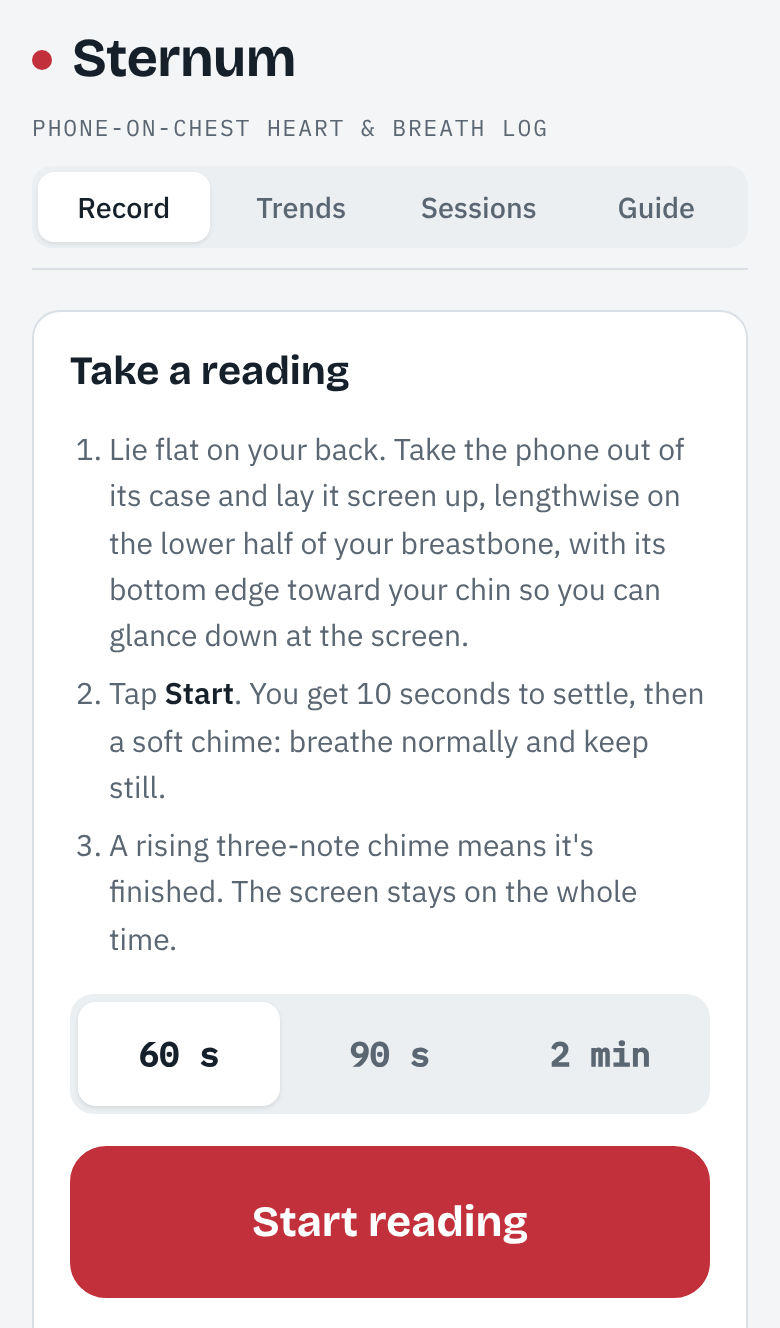
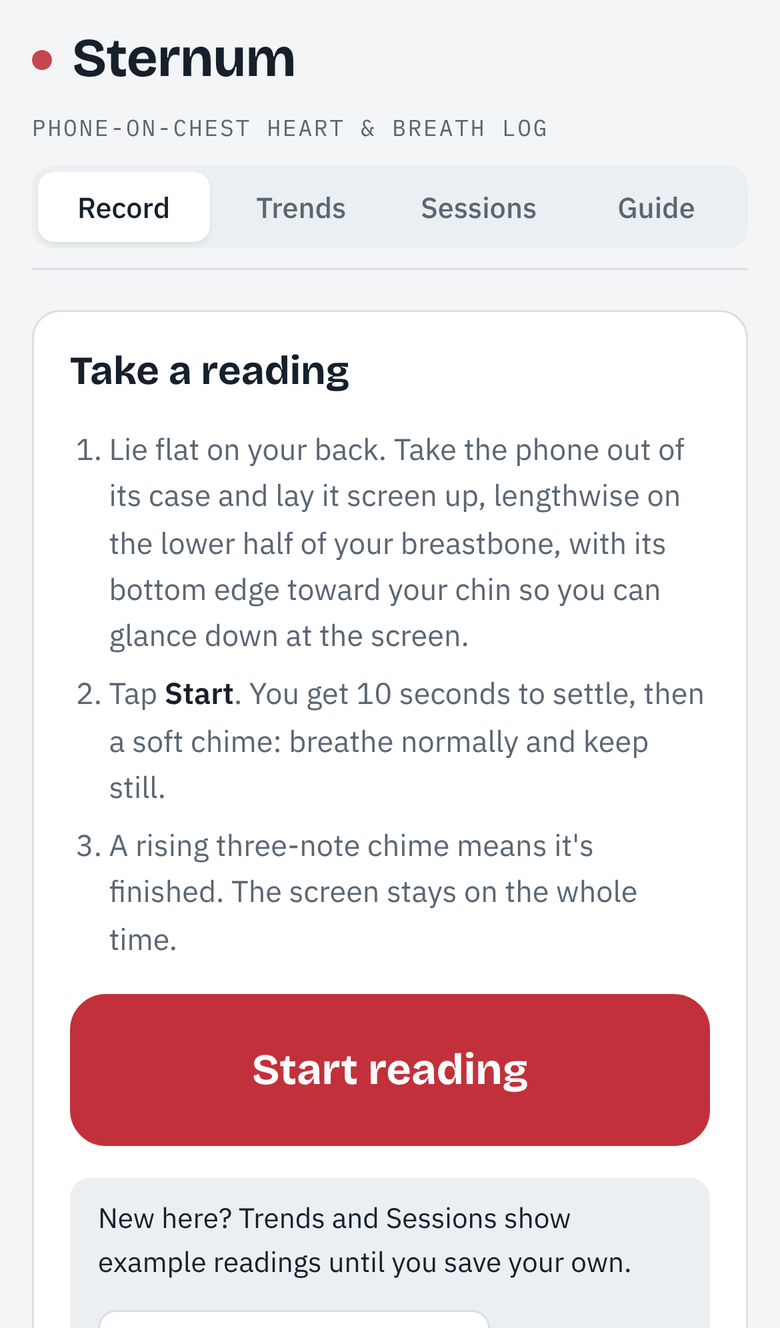
Home: drop the repeated warnings and the length picker; readings are 60 s (#4)
The safety note before each reading covers it, so the note under Start and
the box at the top of the Guide go.

Claude-Session: https://claude.ai/code/session_01PqYzxjYGHHQ4LtS2t6Qgvf

Changed region(s): [[0.0923, 0.741, 0.9231, 1.0]]

diff --git a/index.html b/index.html
@@ -125,9 +125,6 @@ label.check { display: flex; gap: 8px; align-items: center; font-size: .9rem }
 .start { gap: 16px }
 .steps { margin: 0; padding-left: 1.3em; display: flex; flex-direction: column; gap: 6px; color: var(--muted) }
 .steps b { color: var(--ink) }
-.seg { display: grid; grid-template-columns: repeat(3, 1fr); background: var(--soft); border-radius: 12px; padding: 4px; gap: 4px }
-.seg button { border: 0; background: none; color: var(--muted); font: 600 1.05rem var(--mono); padding: 12px 4px; border-radius: 9px; min-height: 52px }
-.seg button[aria-checked="true"] { background: var(--panel); color: var(--ink); box-shadow: 0 1px 2px rgba(0,0,0,.1) }
 button.go, a.go { box-sizing: border-box; border: 1px solid var(--pulse); background: var(--pulse); border-color: var(--pulse); color: #fff; font: 700 1.35rem var(--display); min-height: 76px; border-radius: 18px; width: 100% }
 button.go:disabled { opacity: .55 }
 button.big-quiet { min-height: 76px; border-radius: 18px; font: 600 1.15rem var(--body); width: 100% }
@@ -184,9 +181,6 @@ figcaption { font-size: .72rem; letter-spacing: .07em; text-transform: uppercase
 .about-you { display: flex; flex-direction: column; gap: 6px }
 .about-you select { min-height: 44px; min-width: 0; flex: 1 1 0 }
 .todos, .todo-track, main.wrap, .panel { min-width: 0; max-width: 100% }
-.danger { border-radius: 12px; padding: 14px 16px; background: var(--alert-bg); border-left: 5px solid var(--alert); display: flex; flex-direction: column; gap: 6px }
-.danger b { font-size: 1.05rem; color: var(--alert) }
-.danger p { margin: 0; font-size: .92rem; line-height: 1.5 }
 .todos { display: flex; flex-direction: column; gap: 8px }
 .todo-track { display: flex; overflow-x: auto; scroll-snap-type: x mandatory; gap: 12px; scrollbar-width: none; -webkit-overflow-scrolling: touch }
 .todo-track::-webkit-scrollbar { display: none }
@@ -218,8 +212,6 @@ figcaption { font-size: .72rem; letter-spacing: .07em; text-transform: uppercase
 .lead { font-size: 1.08rem; line-height: 1.5 }
 .welcome .brandline { display: flex; align-items: center; gap: 10px; font: 700 1.1rem var(--display) }
 .welcome .brandline img { width: 40px; height: 40px; border-radius: 10px }
-.disclaimer { font-size: .84rem; color: var(--muted); border-left: 3px solid var(--alert); padding: 2px 0 2px 10px; max-width: 65ch }
-.disclaimer b { color: var(--ink); font-weight: 600 }
 .pose { margin: 0; background: var(--panel); border: 1px solid var(--line); border-radius: 16px; padding: 14px 10px 6px }
 .pose svg { display: block; width: 100%; height: auto; max-width: 480px; margin: 0 auto; overflow: visible }
 .pose text { font-family: var(--body) }
@@ -275,11 +267,7 @@ details.more[open] > summary, details.more-charts[open] > summary { margin-botto
         <div class="qr" id="desk-qr" aria-label="QR code that opens this page"></div>
         <div><b>Sternum records on a phone</b><p class="small muted">It reads your heart from your phone's motion sensors, which a computer doesn't have. Scan this with your phone's camera to open Sternum there. Meanwhile, look at the example reading or run a simulated one below.</p></div>
       </div>
-      <div class="seg" role="radiogroup" aria-label="Reading length">
-        <button role="radio" data-dur="60" aria-checked="true">60 s</button><button role="radio" data-dur="90" aria-checked="false">90 s</button><button role="radio" data-dur="120" aria-checked="false">2 min</button>
-      </div>
       <button class="go" id="btn-live">Start reading</button>
-      <p class="disclaimer"><b>A curiosity, not a medical device.</b> If you have chest pain, faint, are badly short of breath, or your heart is racing and won't settle, don't take a reading: call emergency services or see a doctor.</p>
       <div id="example-note" class="example-card" hidden><span>New here? Trends and Sessions show example readings until you save your own.</span><button id="btn-example">See an example reading</button></div>
       <div id="start-msg" class="banner warn" hidden></div>
       <details class="sim">
@@ -384,18 +372,13 @@ details.more[open] > summary, details.more-charts[open] > summary { margin-botto
   <main id="view-sessions" class="wrap" role="tabpanel" aria-labelledby="tab-sessions" data-view="sessions" hidden></main>
   <main id="view-guide" class="wrap" role="tabpanel" aria-labelledby="tab-guide" data-view="guide" hidden>
     <article class="panel guide">
-        <div class="danger" role="note">
-          <b>Get help now, don't take a reading</b>
-          <p>Chest pain, fainting, severe breathlessness, or a racing heart that won't settle: call emergency services or see a doctor.</p>
-          <p>Sternum is not a medical device. It can't diagnose anything, and it may not notice a condition you already have, such as atrial fibrillation, a pacemaker rhythm or a valve problem. A "normal" result never rules one out. If irregular rhythm keeps showing up, check it with an ECG (Apple Watch ECG app, KardiaMobile, or your doctor).</p>
-        </div>
         <section>
           <h2>How to take a good reading</h2>
           <ol>
             <li>Same time each day, ideally soon after waking, before coffee. Lie flat on your back on a bed, with one thin pillow at most, and rest for 2 to 3 minutes before you tap Start, so your heart rate settles.</li>
             <li>Take the phone out of its case and lay it screen up, flat and lengthwise along the lower half of your breastbone (the flat bone in the middle of your chest), with its bottom edge toward your chin. Then a glance down shows the countdown and your heart rate the right way up.</li>
             <li>Arms by your sides. Breathe normally, don't talk, keep still. Do Not Disturb stops a buzz from spoiling the reading.</li>
-            <li>Tap Start, settle during the 10-second countdown, and stay still until the closing chime. 60 seconds is enough; 2 minutes gives steadier HRV.</li>
+            <li>Tap Start, settle during the 10-second countdown, and stay still until the closing chime.</li>
             <li>Tag anything unusual (coffee, alcohol, short sleep, workout, feeling unwell). Tags explain outliers later.</li>
             <li>Mark 3–5 calm, typical mornings as your baseline. Until you do, the first three good readings are used.</li>
           </ol>
@@ -1117,7 +1100,7 @@ function packRaw(rec) {
 // a field guide travels inside every export, so any reader (or another Claude) can interpret it cold
 const EXPORT_ABOUT = {
   profile: 'optional, self-reported: age range and sex (null if not given). Use for context only, e.g. HRV norms fall with age.',
-  what: 'Sternum readings. The person lies on their back with a phone (no case) flat on the lower breastbone for 60-120 s. The page records the accelerometer and gyroscope (seismo- and gyrocardiography: each heartbeat jolts and rocks the chest; breathing tilts the phone). Readings from older versions may also include the microphone (breath sounds; heart sounds only if audible). Wellness tracking, not a medical device.',
+  what: 'Sternum readings. The person lies on their back with a phone (no case) flat on the lower breastbone for 60 s. The page records the accelerometer and gyroscope (seismo- and gyrocardiography: each heartbeat jolts and rocks the chest; breathing tilts the phone). Readings from older versions may also include the microphone (breath sounds; heart sounds only if audible). Wellness tracking, not a medical device.',
   sessions: {
     id: 'unique reading id; keys raw data in "raw"', ts: 'start time, ms since 1970 (UTC)', source: 'live = recorded on the phone; simulated = synthetic demo',
     tags: 'context the person ticked (coffee, short sleep, ...)', note: 'free text', baseline: 'true if marked as part of their personal baseline',
@@ -1684,9 +1667,7 @@ function bqCo(type, f0, fs) {
 }
 function bqStream(co) { let x1 = 0, x2 = 0, y1 = 0, y2 = 0; return x => { const y = co[0] * x + co[1] * x1 + co[2] * x2 - co[3] * y1 - co[4] * y2; x2 = x1; x1 = x; y2 = y1; y1 = y; return y; }; }
 
-let DUR = 60;
-document.querySelectorAll('.seg [data-dur]').forEach(b => b.onclick = () => { DUR = +b.dataset.dur; document.querySelectorAll('.seg [data-dur]').forEach(x => x.setAttribute('aria-checked', x === b)); try { localStorage.setItem('sternum.dur', DUR); } catch { } });
-try { const d = +localStorage.getItem('sternum.dur'); if ([60, 90, 120].includes(d)) document.querySelector(`.seg [data-dur="${d}"]`).click(); } catch { }
+const DUR = 60;
 
 $('#btn-live').onclick = async () => {
   // everything that needs the tap itself happens before the first await
@@ -1830,7 +1811,7 @@ $('#btn-example').onclick = () => { renderResult(EXAMPLES[EXAMPLES.length - 1], 
 
 // a computer has no motion sensors: point it at a phone instead, and leave the examples and simulations to explore
 if (!matchMedia('(pointer: coarse)').matches) {
-  $('#desk').hidden = false; $('.seg').hidden = true; $('#btn-live').hidden = true; $('details.sim').open = true;
+  $('#desk').hidden = false; $('#btn-live').hidden = true; $('details.sim').open = true;
   if (/^https?:$/.test(location.protocol)) {
     const sc = document.createElement('script'); sc.src = 'vendor/qrcode.js';
     sc.onload = () => { try { const q = qrcode(0, 'M'); q.addData(location.origin + location.pathname); q.make(); $('#desk-qr').innerHTML = q.createSvgTag({ cellSize: 4, margin: 0, scalable: true }); } catch { $('#desk-qr').hidden = true; } };

diff --git a/src/page.html b/src/page.html
@@ -125,9 +125,6 @@ label.check { display: flex; gap: 8px; align-items: center; font-size: .9rem }
 .start { gap: 16px }
 .steps { margin: 0; padding-left: 1.3em; display: flex; flex-direction: column; gap: 6px; color: var(--muted) }
 .steps b { color: var(--ink) }
-.seg { display: grid; grid-template-columns: repeat(3, 1fr); background: var(--soft); border-radius: 12px; padding: 4px; gap: 4px }
-.seg button { border: 0; background: none; color: var(--muted); font: 600 1.05rem var(--mono); padding: 12px 4px; border-radius: 9px; min-height: 52px }
-.seg button[aria-checked="true"] { background: var(--panel); color: var(--ink); box-shadow: 0 1px 2px rgba(0,0,0,.1) }
 button.go, a.go { box-sizing: border-box; border: 1px solid var(--pulse); background: var(--pulse); border-color: var(--pulse); color: #fff; font: 700 1.35rem var(--display); min-height: 76px; border-radius: 18px; width: 100% }
 button.go:disabled { opacity: .55 }
 button.big-quiet { min-height: 76px; border-radius: 18px; font: 600 1.15rem var(--body); width: 100% }
@@ -184,9 +181,6 @@ figcaption { font-size: .72rem; letter-spacing: .07em; text-transform: uppercase
 .about-you { display: flex; flex-direction: column; gap: 6px }
 .about-you select { min-height: 44px; min-width: 0; flex: 1 1 0 }
 .todos, .todo-track, main.wrap, .panel { min-width: 0; max-width: 100% }
-.danger { border-radius: 12px; padding: 14px 16px; background: var(--alert-bg); border-left: 5px solid var(--alert); display: flex; flex-direction: column; gap: 6px }
-.danger b { font-size: 1.05rem; color: var(--alert) }
-.danger p { margin: 0; font-size: .92rem; line-height: 1.5 }
 .todos { display: flex; flex-direction: column; gap: 8px }
 .todo-track { display: flex; overflow-x: auto; scroll-snap-type: x mandatory; gap: 12px; scrollbar-width: none; -webkit-overflow-scrolling: touch }
 .todo-track::-webkit-scrollbar { display: none }
@@ -218,8 +212,6 @@ figcaption { font-size: .72rem; letter-spacing: .07em; text-transform: uppercase
 .lead { font-size: 1.08rem; line-height: 1.5 }
 .welcome .brandline { display: flex; align-items: center; gap: 10px; font: 700 1.1rem var(--display) }
 .welcome .brandline img { width: 40px; height: 40px; border-radius: 10px }
-.disclaimer { font-size: .84rem; color: var(--muted); border-left: 3px solid var(--alert); padding: 2px 0 2px 10px; max-width: 65ch }
-.disclaimer b { color: var(--ink); font-weight: 600 }
 .pose { margin: 0; background: var(--panel); border: 1px solid var(--line); border-radius: 16px; padding: 14px 10px 6px }
 .pose svg { display: block; width: 100%; height: auto; max-width: 480px; margin: 0 auto; overflow: visible }
 .pose text { font-family: var(--body) }
@@ -275,11 +267,7 @@ details.more[open] > summary, details.more-charts[open] > summary { margin-botto
         <div class="qr" id="desk-qr" aria-label="QR code that opens this page"></div>
         <div><b>Sternum records on a phone</b><p class="small muted">It reads your heart from your phone's motion sensors, which a computer doesn't have. Scan this with your phone's camera to open Sternum there. Meanwhile, look at the example reading or run a simulated one below.</p></div>
       </div>
-      <div class="seg" role="radiogroup" aria-label="Reading length">
-        <button role="radio" data-dur="60" aria-checked="true">60 s</button><button role="radio" data-dur="90" aria-checked="false">90 s</button><button role="radio" data-dur="120" aria-checked="false">2 min</button>
-      </div>
       <button class="go" id="btn-live">Start reading</button>
-      <p class="disclaimer"><b>A curiosity, not a medical device.</b> If you have chest pain, faint, are badly short of breath, or your heart is racing and won't settle, don't take a reading: call emergency services or see a doctor.</p>
       <div id="example-note" class="example-card" hidden><span>New here? Trends and Sessions show example readings until you save your own.</span><button id="btn-example">See an example reading</button></div>
       <div id="start-msg" class="banner warn" hidden></div>
       <details class="sim">
@@ -384,18 +372,13 @@ details.more[open] > summary, details.more-charts[open] > summary { margin-botto
   <main id="view-sessions" class="wrap" role="tabpanel" aria-labelledby="tab-sessions" data-view="sessions" hidden></main>
   <main id="view-guide" class="wrap" role="tabpanel" aria-labelledby="tab-guide" data-view="guide" hidden>
     <article class="panel guide">
-        <div class="danger" role="note">
-          <b>Get help now, don't take a reading</b>
-          <p>Chest pain, fainting, severe breathlessness, or a racing heart that won't settle: call emergency services or see a doctor.</p>
-          <p>Sternum is not a medical device. It can't diagnose anything, and it may not notice a condition you already have, such as atrial fibrillation, a pacemaker rhythm or a valve problem. A "normal" result never rules one out. If irregular rhythm keeps showing up, check it with an ECG (Apple Watch ECG app, KardiaMobile, or your doctor).</p>
-        </div>
         <section>
           <h2>How to take a good reading</h2>
           <ol>
             <li>Same time each day, ideally soon after waking, before coffee. Lie flat on your back on a bed, with one thin pillow at most, and rest for 2 to 3 minutes before you tap Start, so your heart rate settles.</li>
             <li>Take the phone out of its case and lay it screen up, flat and lengthwise along the lower half of your breastbone (the flat bone in the middle of your chest), with its bottom edge toward your chin. Then a glance down shows the countdown and your heart rate the right way up.</li>
             <li>Arms by your sides. Breathe normally, don't talk, keep still. Do Not Disturb stops a buzz from spoiling the reading.</li>
-            <li>Tap Start, settle during the 10-second countdown, and stay still until the closing chime. 60 seconds is enough; 2 minutes gives steadier HRV.</li>
+            <li>Tap Start, settle during the 10-second countdown, and stay still until the closing chime.</li>
             <li>Tag anything unusual (coffee, alcohol, short sleep, workout, feeling unwell). Tags explain outliers later.</li>
             <li>Mark 3–5 calm, typical mornings as your baseline. Until you do, the first three good readings are used.</li>
           </ol>
@@ -516,7 +499,7 @@ function packRaw(rec) {
 // a field guide travels inside every export, so any reader (or another Claude) can interpret it cold
 const EXPORT_ABOUT = {
   profile: 'optional, self-reported: age range and sex (null if not given). Use for context only, e.g. HRV norms fall with age.',
-  what: 'Sternum readings. The person lies on their back with a phone (no case) flat on the lower breastbone for 60-120 s. The page records the accelerometer and gyroscope (seismo- and gyrocardiography: each heartbeat jolts and rocks the chest; breathing tilts the phone). Readings from older versions may also include the microphone (breath sounds; heart sounds only if audible). Wellness tracking, not a medical device.',
+  what: 'Sternum readings. The person lies on their back with a phone (no case) flat on the lower breastbone for 60 s. The page records the accelerometer and gyroscope (seismo- and gyrocardiography: each heartbeat jolts and rocks the chest; breathing tilts the phone). Readings from older versions may also include the microphone (breath sounds; heart sounds only if audible). Wellness tracking, not a medical device.',
   sessions: {
     id: 'unique reading id; keys raw data in "raw"', ts: 'start time, ms since 1970 (UTC)', source: 'live = recorded on the phone; simulated = synthetic demo',
     tags: 'context the person ticked (coffee, short sleep, ...)', note: 'free text', baseline: 'true if marked as part of their personal baseline',
@@ -1083,9 +1066,7 @@ function bqCo(type, f0, fs) {
 }
 function bqStream(co) { let x1 = 0, x2 = 0, y1 = 0, y2 = 0; return x => { const y = co[0] * x + co[1] * x1 + co[2] * x2 - co[3] * y1 - co[4] * y2; x2 = x1; x1 = x; y2 = y1; y1 = y; return y; }; }
 
-let DUR = 60;
-document.querySelectorAll('.seg [data-dur]').forEach(b => b.onclick = () => { DUR = +b.dataset.dur; document.querySelectorAll('.seg [data-dur]').forEach(x => x.setAttribute('aria-checked', x === b)); try { localStorage.setItem('sternum.dur', DUR); } catch { } });
-try { const d = +localStorage.getItem('sternum.dur'); if ([60, 90, 120].includes(d)) document.querySelector(`.seg [data-dur="${d}"]`).click(); } catch { }
+const DUR = 60;
 
 $('#btn-live').onclick = async () => {
   // everything that needs the tap itself happens before the first await
@@ -1229,7 +1210,7 @@ $('#btn-example').onclick = () => { renderResult(EXAMPLES[EXAMPLES.length - 1], 
 
 // a computer has no motion sensors: point it at a phone instead, and leave the examples and simulations to explore
 if (!matchMedia('(pointer: coarse)').matches) {
-  $('#desk').hidden = false; $('.seg').hidden = true; $('#btn-live').hidden = true; $('details.sim').open = true;
+  $('#desk').hidden = false; $('#btn-live').hidden = true; $('details.sim').open = true;
   if (/^https?:$/.test(location.protocol)) {
     const sc = document.createElement('script'); sc.src = 'vendor/qrcode.js';
     sc.onload = () => { try { const q = qrcode(0, 'M'); q.addData(location.origin + location.pathname); q.make(); $('#desk-qr').innerHTML = q.createSvgTag({ cellSize: 4, margin: 0, scalable: true }); } catch { $('#desk-qr').hidden = true; } };

diff --git a/README.md b/README.md
@@ -46,7 +46,7 @@ Add it to the Home Screen. Safari deletes a website's data if you don't visit fo
 
 ## How a reading works
 
-Tap **Start reading** and allow motion access. A safety note comes first; tap **I understand** and you get a 10-second countdown to get into position, with a diagram of where the phone goes. Then a chime, and the recording (60 s, 90 s or 2 min) with a live pulse and chest motion view. During the recording the time left and heart rate are drawn tall and narrow, so they stay legible when you glance down the phone from your chin. A rising three-note chime means it's done, and the screen stays awake throughout.
+Tap **Start reading** and allow motion access. A safety note comes first; tap **I understand** and you get a 10-second countdown to get into position, with a diagram of where the phone goes. Then a chime, and the 60-second recording with a live pulse and chest motion view. During the recording the time left and heart rate are drawn tall and narrow, so they stay legible when you glance down the phone from your chin. A rising three-note chime means it's done, and the screen stays awake throughout.
 
 ## Developing
 
